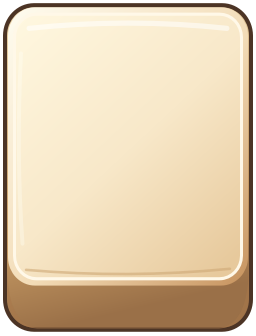
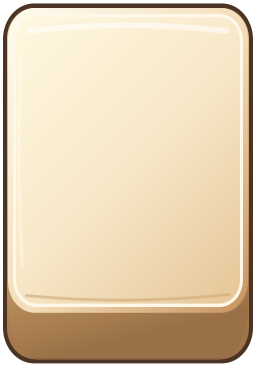
refactor(art): make tiles more upright

Changed region(s): [[0.0938, 0.9821, 0.9062, 1.0], [0.125, 0.0, 0.875, 0.0298]]

diff --git a/AGENTS.md b/AGENTS.md
@@ -76,7 +76,7 @@ Project-level instructions for Codex working on Battle Mahjong.
 - Pause and Game Over derive from the shared responsive `GameOverlay` template. Both use the limiting safe-display UI scale, shared panel/button styling, and safe-area centering. Pause owns session-only Sound and Haptics controls rendered as scalable full-row ON/OFF treatments rather than fixed-size engine indicator icons. Selection and pair haptic profiles are Inspector-tunable presentation feedback; preferences remain non-persistent until M9.
 - Shuffle commits its deterministic slot remapping immediately, then one native parallel position Tween settles every active tile into its new slot with a slight overshoot. Face-up and face-down presentation remains unchanged during the move, and Shuffle timing never enters simulation state. Runtime route validation uses the tray-aware planner's direct deterministic geometry-and-face verifier; full transaction replay remains an offline solver/test responsibility.
 - `UpdateChecker` calls the live Cloud Run `/v1/startup` endpoint when gameplay starts. It compares the deployed app code with the endpoint's latest code and shows the responsive update banner when behind; `version.json` and `export_presets.cfg` provide offline/local fallback metadata. Hashtag deployments sync the newly published code/name to Cloud Run automatically. No native Google Play Core plugin is currently included, so the banner falls back to opening the Play testing URL rather than performing an in-app binary update.
-- The Default skin uses one shared `16:21` warm-ivory front and a distinct dark-green patterned ceramic back in portrait and landscape, five percent taller than the earlier `4:5` prototype. A separate replaceable back-design overlay composes over the back base. Board, tray, face-down presentation, shadows, and animation previews share the geometry; orientation only reflows peripheral UI and never changes stable layout slots or simulation rules.
+- The Default skin uses one shared `16:23` warm-ivory front and a distinct dark-green patterned ceramic back in portrait and landscape, fifteen percent taller than the earlier `4:5` prototype. A separate replaceable back-design overlay composes over the back base. Board, tray, face-down presentation, shadows, and animation previews share the geometry; orientation only reflows peripheral UI and never changes stable layout slots or simulation rules.
 - The six M5 modifiers use shared tile-attached artwork declared by the active skin manifest and positioned as large upper-left badges through orientation-specific modifier bounds. Board tiles, tray tiles, and moving previews render the same cosmetic overlay. Their lightweight activation presentation reuses one Board-edge/icon layer; persistent state appears beside Score for Extra Life, on Momentum for Cold Snap and Score Multiplier, and on the queue for Tray +1.
 - The gameplay shell's default-off `playtest_all_modifiers` Inspector flag snapshots all six modifiers onto the opening six solver-route pairs for deterministic M7 review. Bomb is level 4 for Bomb 5, Three Pair Clear is level 2 for Match 3, and the other four remain level 0. The pregame picker exposes Bomb 1–6 and Match 1–5 and permits only one selected iteration per type. It may raise only that run's loadout capacity; production reference games retain their starter loadout and normal seeded placement.
 - Three Pair Clear snapshots a level-scaled route of up to five initially selectable pairs, locks player input, and submits their tiles through the ordinary selection path on a timer; those transactions use normal Score, Momentum, Combo, difficulty, queue, and match behavior. Bomb uses gameplay RNG to recalculate and atomically remove its level-scaled route before its responsive collision chain. Both preserve unresolved modifier identities, skip identities already held in the tray, and record their ordered route in trigger telemetry.

diff --git a/docs/TILE_ART_PIPELINE.md b/docs/TILE_ART_PIPELINE.md
@@ -20,7 +20,7 @@ The current 96-tile reference game still uses 24 abstract identities with four c
 
 ## Geometry
 
-The Default skin uses one canonical `16:21` ceramic base geometry in portrait and landscape. This is five percent taller than the earlier `4:5` prototype and better matches the upright inspiration silhouette. Both recipes preserve the same tile identity, stable authored slot, modifier attachment role, face-art layer, and physical silhouette. Orientation changes reflow peripheral UI without changing tile shape.
+The Default skin uses one canonical `16:23` ceramic base geometry in portrait and landscape. This is fifteen percent taller than the earlier `4:5` prototype and clearly matches the upright inspiration silhouette. Both recipes preserve the same tile identity, stable authored slot, modifier attachment role, face-art layer, and physical silhouette. Orientation changes reflow peripheral UI without changing tile shape.
 
 Legacy canonical face geometry:
 
@@ -110,7 +110,7 @@ These are production candidates with replaceable masters, not final approval of 
 
 Automated checks cover all 34 required IDs and runtime assets, uniqueness, canonical honor naming, all 24 temporary mappings, geometry values, independent face/modifier layers, board-to-tray motion targeting, blocked-tap isolation, transaction-gated pair feedback, shared Delete Pair removal feedback, responsive background coverage, and board containment in landscape, phone portrait, and `375 x 667` compact portrait.
 
-The compact-phone board validates the canonical tile at its declared `32 x 42` minimum. Portrait and landscape both retain the same `16:21` physical silhouette while the board scales to its available region. Continued visual review at the declared minimum remains required for Default refinements and every Neon face before M7 can be considered done.
+The compact-phone board validates the canonical tile at its declared `32 x 46` minimum. Portrait and landscape both retain the same `16:23` physical silhouette while the board scales to its available region. Continued visual review at the declared minimum remains required for Default refinements and every Neon face before M7 can be considered done.
 
 ## Gameplay Background
 
